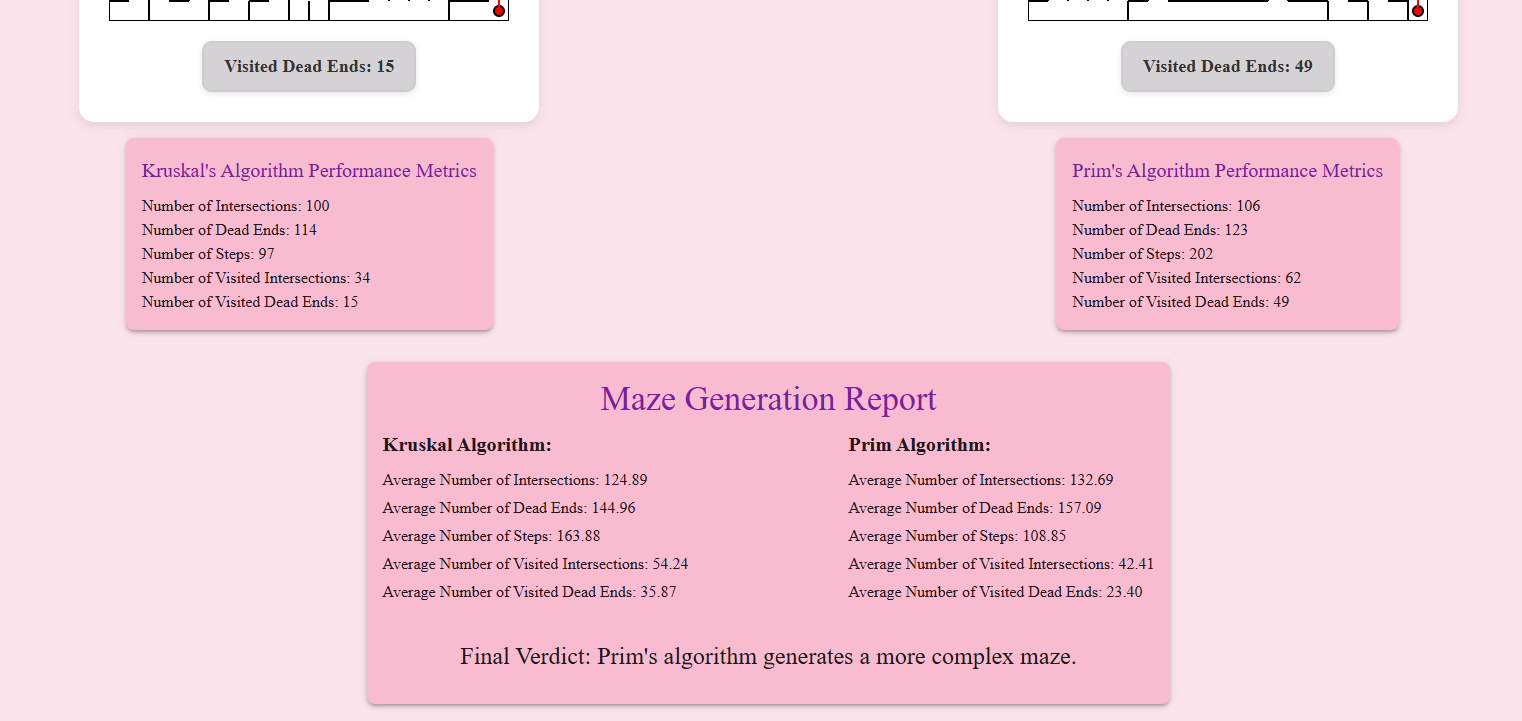
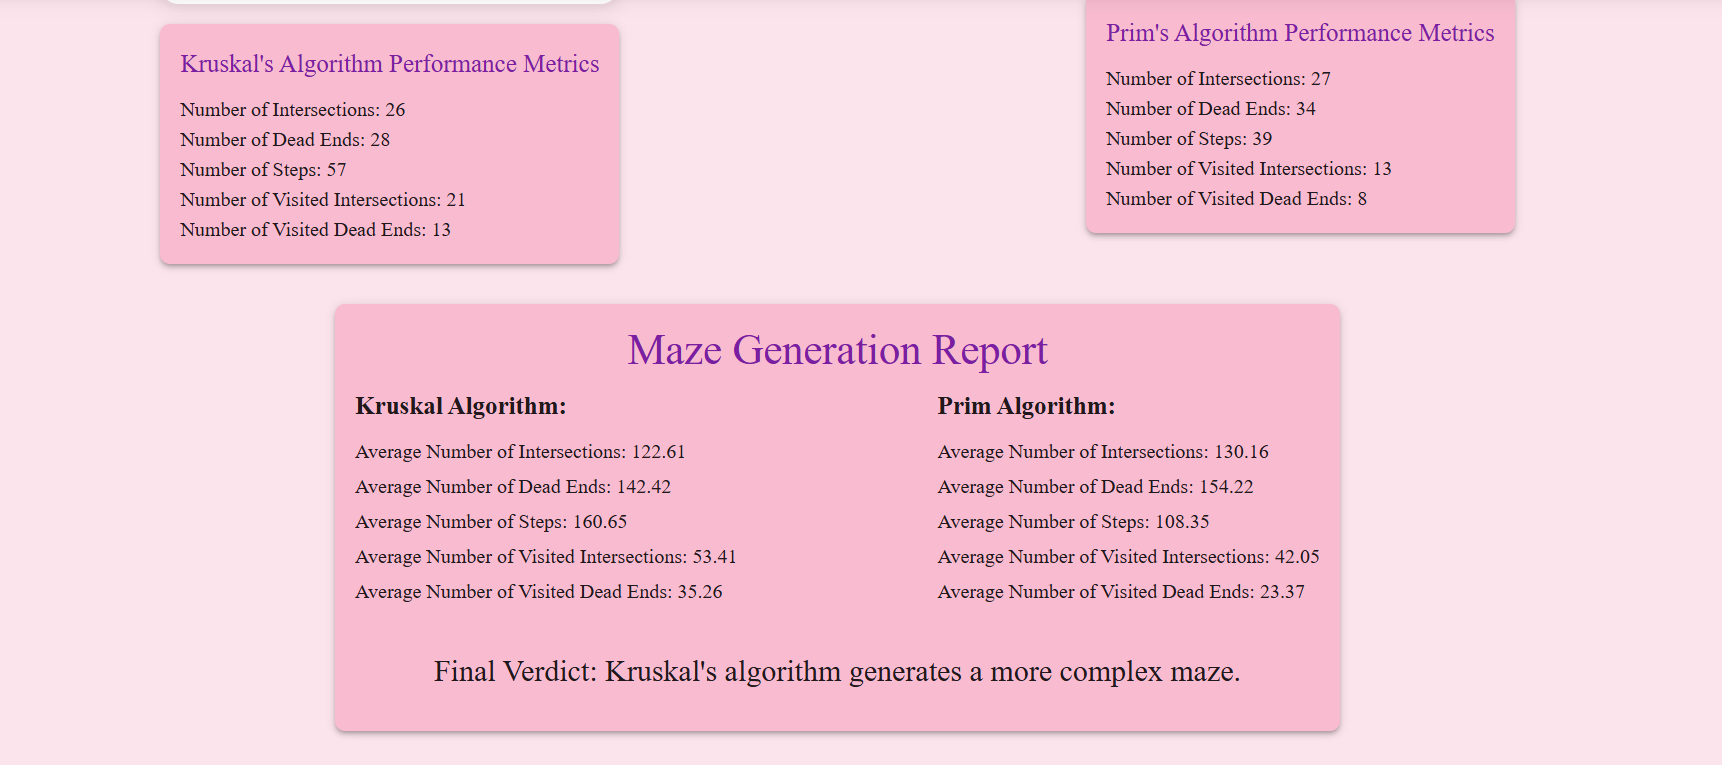
final verdict changes

diff --git a/client/src/components/MazeGenerator.jsx b/client/src/components/MazeGenerator.jsx
@@ -110,31 +110,38 @@ const MazeGenerator = () => {
   const calculateVerdict = () => {
     let kruskalScore = 0;
     let primScore = 0;
-
-    if (performanceMetricsKruskal.numIntersections > performanceMetricsPrim.numIntersections)
-      kruskalScore++;
-    else primScore++;
-
-    if (performanceMetricsKruskal.numDeadEnds > performanceMetricsPrim.numDeadEnds)
-      kruskalScore++;
-    else primScore++;
-
-    if (performanceMetricsKruskal.numSteps > performanceMetricsPrim.numSteps)
-      kruskalScore++;
-    else primScore++;
-
-    if (performanceMetricsKruskal.numVisitedDeadEnds > performanceMetricsPrim.numVisitedDeadEnds)
-      kruskalScore++;
-    else primScore++;
-
-    if (performanceMetricsKruskal.numVisitedIntersections > performanceMetricsPrim.numVisitedIntersections)
-      kruskalScore++;
-    else primScore++;
-
-    return kruskalScore > primScore
-      ? "Kruskal's algorithm generates a more complex maze."
-      : "Prim's algorithm generates a more complex maze.";
+  
+    const metrics = [
+      { key: "numIntersections", higherIsBetter: true },
+      { key: "numDeadEnds", higherIsBetter: true },
+      { key: "numSteps", higherIsBetter: true },
+      { key: "numVisitedIntersections", higherIsBetter: true },
+      { key: "numVisitedDeadEnds", higherIsBetter: true },
+    ];
+  
+    metrics.forEach(({ key, higherIsBetter }) => {
+      const kruskalVal = performanceMetricsKruskal[key];
+      const primVal = performanceMetricsPrim[key];
+  
+      if (kruskalVal === primVal) return;
+  
+      const kruskalWins = higherIsBetter
+        ? kruskalVal > primVal
+        : kruskalVal < primVal;
+  
+      if (kruskalWins) kruskalScore++;
+      else primScore++;
+    });
+  
+    if (kruskalScore > primScore) {
+      return "Kruskal's algorithm generates a more complex maze.";
+    } else if (primScore > kruskalScore) {
+      return "Prim's algorithm generates a more complex maze.";
+    } else {
+      return "Both algorithms generate mazes of similar complexity.";
+    }
   };
+  
   const fetchReport = () => {
     fetch('http://localhost:3003/api/generate-report')
       .then(response => response.json())
